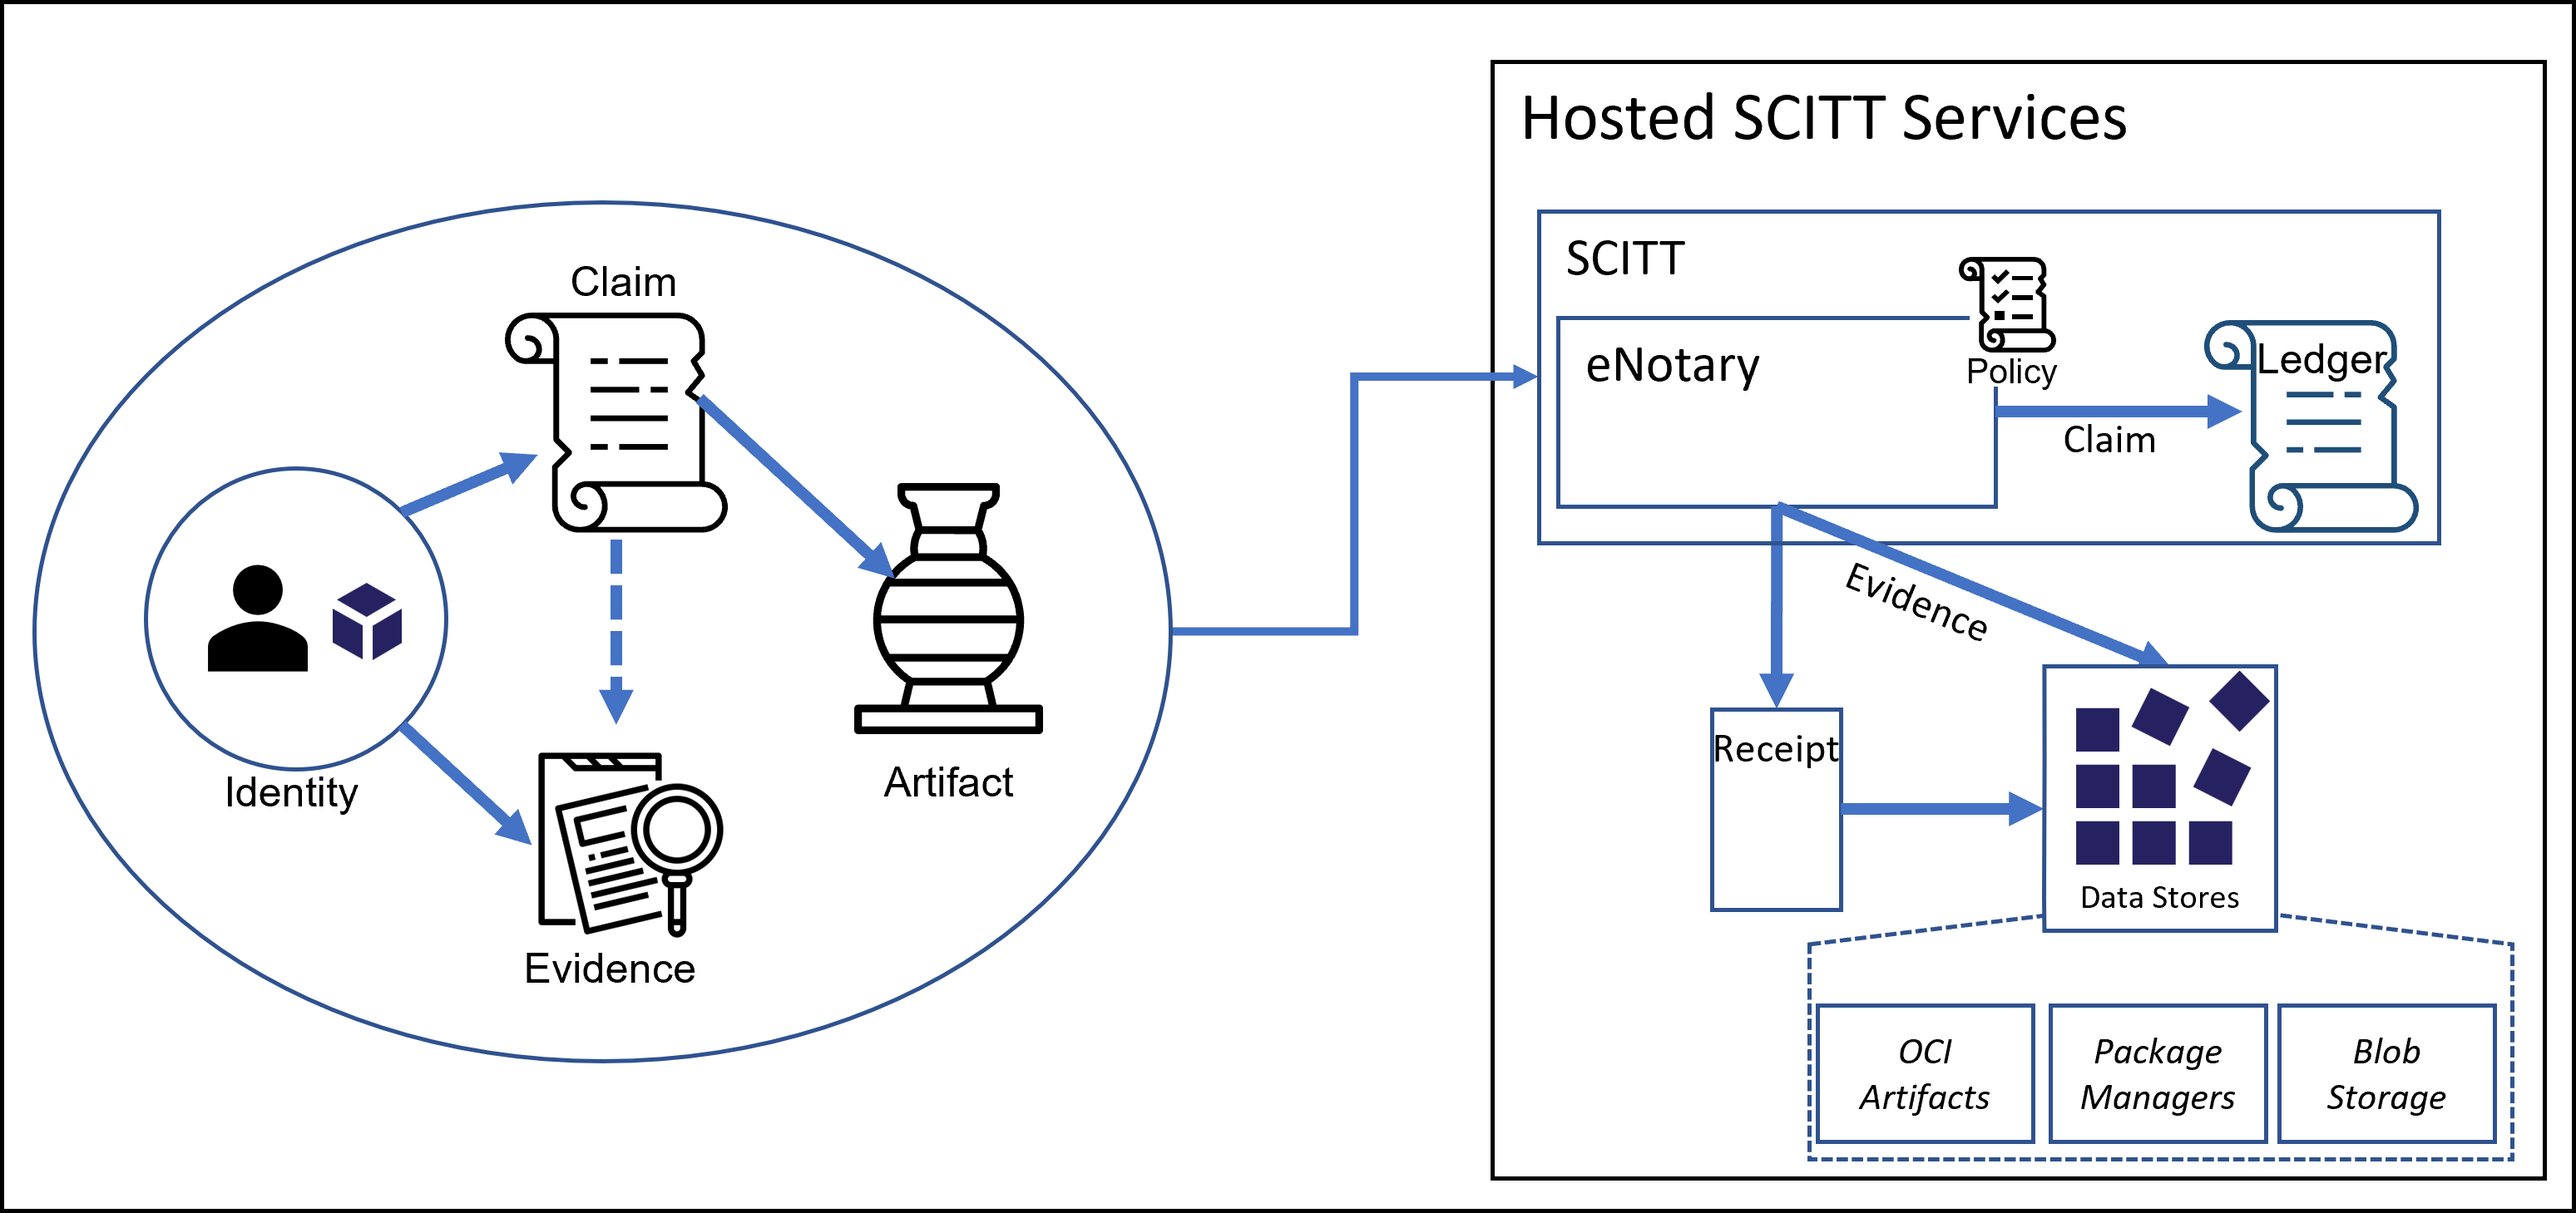
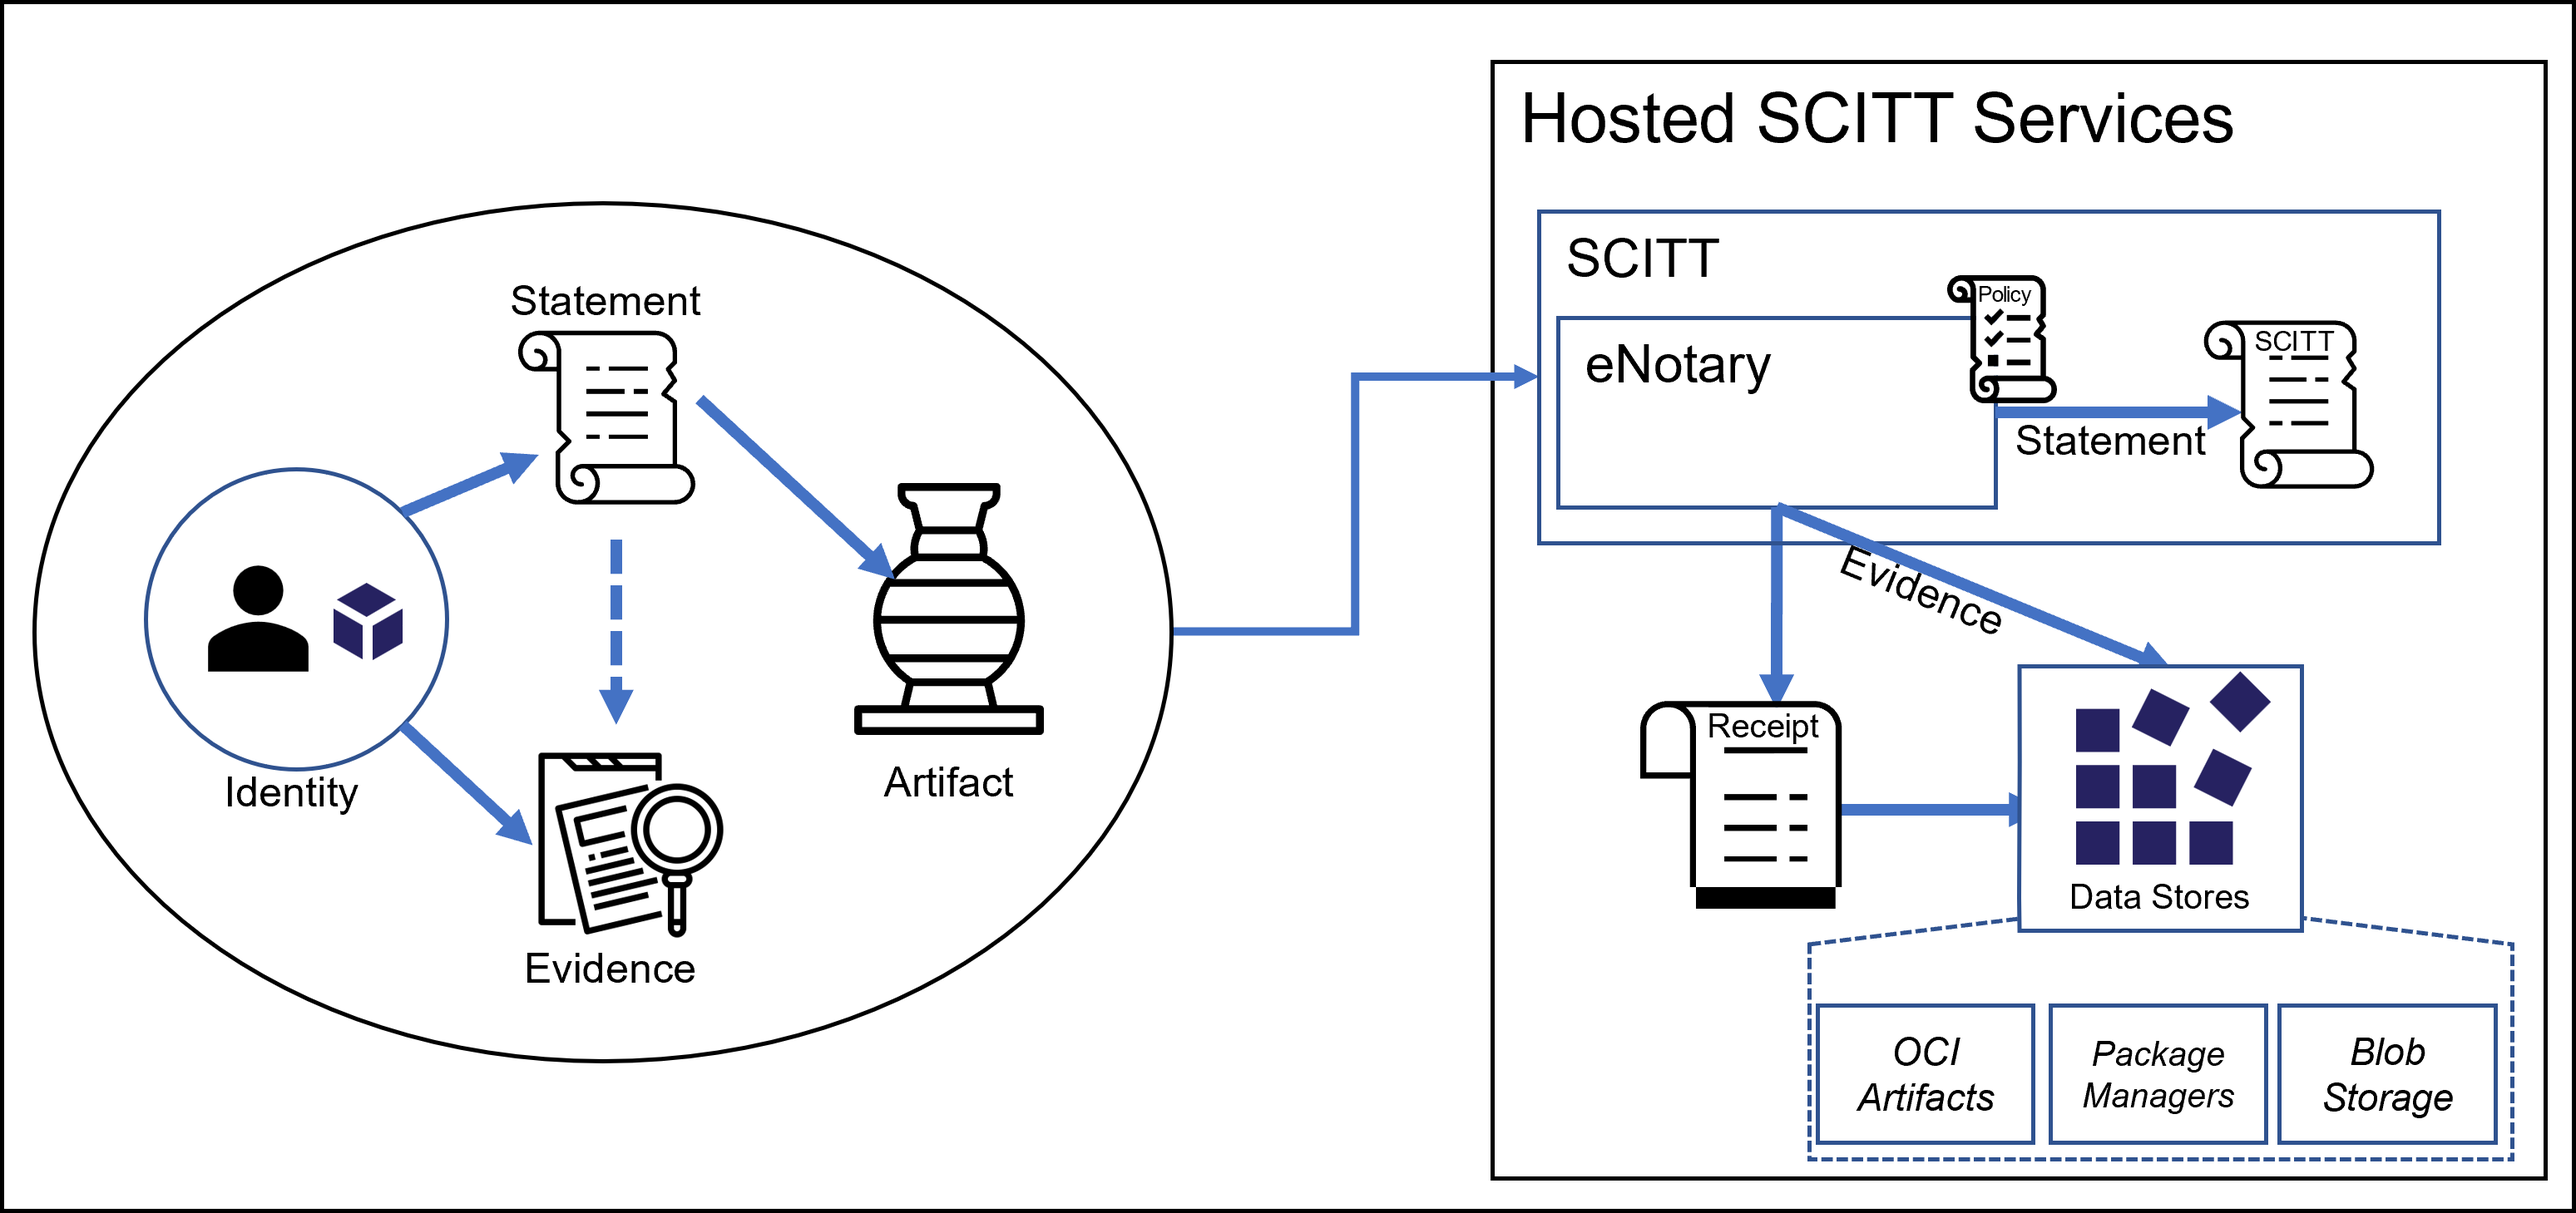
Update references from claim->statement and ledger-->append-only log (#45)
* Update references from claim->statment and ledger-->append-only log
* Apply suggestions from code review

diff --git a/README.md b/README.md
@@ -15,30 +15,30 @@ SCITT supports the ongoing verification of goods and services where the authenti
 In practice, SCITT provides information about artifacts, enabling a mesh of dependencies to understand what each subsystem is consuming.
 Detailed information comes in varying formats, from structured to unstructured.
 
-In SCITT, structured data is a claim. A claim is a well-structured statement, made by a verifiable entity that may have supporting evidence.
+In SCITT, structured data is represented as a Statement. A Statement is a well-structured statement, made by a verifiable entity that may have supporting evidence.
 
-<img src="./assets/claims-evidence-relationship.png" alt="Identity, Claim, Evidence, Artifact relationship" style="width:300px;"/>
+<img src="./assets/statement-evidence-relationship.png" alt="Identity, Statement, Evidence, Artifact relationship" style="width:300px;"/>
 
 ### Continual Updates
 
-Documenting claims at the time software is built or deployed would sell SCITT short, as software isn't static. Software is continually updated, and more importantly, we continually learn and want to convey new information about artifacts that have already been released. Reputable OSS Projects and Independent Software Vendors (ISVs) don't intentionally produce software they know to be vulnerable. Only after the software is public do we often find out about new vulnerabilities. SCITT is a means to convey a stream of continual updates for each versioned artifact.
+Documenting Statements at the time software is built or deployed would sell SCITT short, as software isn't static. Software is continually updated, and more importantly, we continually learn and want to convey new information about artifacts that have already been released. Reputable OSS Projects and Independent Software Vendors (ISVs) don't intentionally produce software they know to be vulnerable. Only after the software is public do we often find out about new vulnerabilities. SCITT is a means to convey a stream of continual updates for each versioned artifact.
 
 ## SCITT Persistence
 
-SCITT is intended to store verifiable claims for the life of the of the SCITT instance. One of the many questions that surfaces is how big will the SCITT ledger get? What kind of data will go on the SCITT ledger that would cause it to grow?
+SCITT is intended to store Signed Statements for the life of the of the SCITT instance. One of the many questions that surfaces is how big will the SCITT append-only log get? What kind of data will go on the SCITT append-only log that would cause it to grow?
 
 ### eNotary
 
-SCITT is analogous to a digital, or electronic notary service (eNotary), where minimal information is written to the ledger, endorsing the claim. When users notarize legal documents, the notary ledger records the verified identity of the parties, referencing the legal document they are notarizing. The notary ledger doesn't store the legal document, but does have a reference to it. 
+SCITT is analogous to a digital or electronic notary service (eNotary), where minimal information is written to the append-only log and an augmented counter-signature over the Statement and corresponding metadata (Receipt) is produced. When users notarize legal documents, the notary append-only log records the verified identity of the parties, referencing the legal document they are notarizing. The notary append-only log doesn't store the legal document, but does have a reference to it. 
 
-In SCITT, the ledger will contain pointers to the artifact, which the claims are made, with pointers to any supporting evidence.
+In SCITT, the append-only log will contain pointers to the artifact, which Statements are made, with optional pointers to any supporting evidence.
 
 ### Evidence Persistence
 
-A SCITT instance will persist verifiable claims to its ledger. Any optional evidence will be persisted in associated storage. 
+A SCITT instance will persist  Signed Statements to its append-only log. Any optional evidence will be persisted in associated storage. 
 
 <img src="./assets/scitt-persistence.png" alt="SCITT persistence" style="width:600px;"/>
 
-While a SCITT instance should provide a default storage, there's no limit on what storage services are used. For package managers that support breadths of content types, the evidence may be stored alongside the artifact by which the claim is being made. For package managers that limit the content types to the specific package type, a SCITT instance should provide default storage persistence.
+While a SCITT instance should provide a default storage, there's no limit on what storage services are used. For package managers that support breadths of content types, the evidence may be stored alongside the artifact by which the Statement is being made. For package managers that limit the content types to the specific package type, a SCITT instance should provide default storage persistence.
 
 For more info, see: [Supply Chains]({% link supply-chain.md %})
